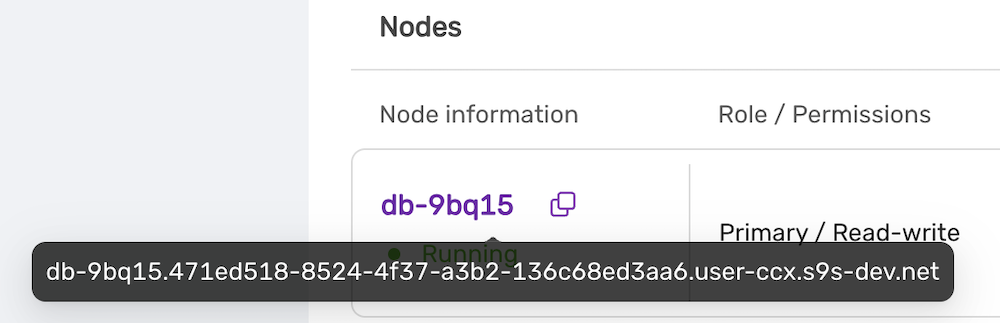
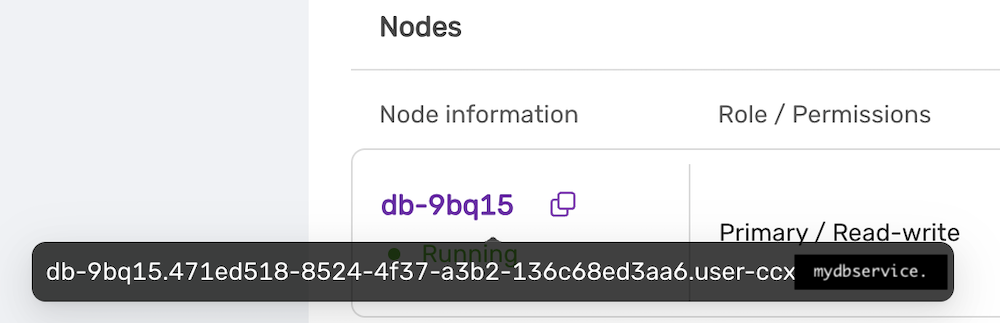
updated

Changed region(s): [[0.775, 0.774, 0.961, 0.8978]]

diff --git a/docs/user/Reference/Products/MySQL/Importing-Data-from-AWS-RDS.md b/docs/user/Reference/Products/MySQL/Importing-Data-from-AWS-RDS.md
@@ -26,11 +26,11 @@ If you dont want to setup replication, then you can chose to only apply the sect
 
 ## Preparations
 * Create a datastore on CCX. Please note that you can also replicate from MySQL 8.0 to MySQL 8.4.
-* Get the endpoint of the CCX Primary (under the Nodes section).  ![sd](../../../images/ccx-primary.png) . Then endpoint in our case is `db-9bq15.471ed518-8524-4f37-a3b2-136c68ed3aa6.user-ccx.s9s-dev.net`.
+* Get the endpoint of the CCX Primary (under the Nodes section).  ![sd](../../../images/ccx-primary.png) . Then endpoint in our case is `db-9bq15.471ed518-8524-4f37-a3b2-136c68ed3aa6.user-ccx.mydbservice.net`.
 * Get the endpoint of the RDS Writer. In this example, the endpoint is `database-1.cluster-cqc4xehkpymd.eu-north-1.rds.amazonaws.com`
 * Update the Security group on AWS RDS to allow the IP address of the CCX Primary to connect. To get the IP address of the CCX Primary you do:
         ```
-        dig db-9bq15.471ed518-8524-4f37-a3b2-136c68ed3aa6.user-ccx.s9s-dev.net
+        dig db-9bq15.471ed518-8524-4f37-a3b2-136c68ed3aa6.user-ccx.mydbservice.net
 * Ensure you can connect a mysql client to both the CCX Primary and the RDS Writer.        ```
 
 ## Create a replication user on the RDS Writer instance:
@@ -50,7 +50,8 @@ Unfortunately, AWS RDS blocks operations like `FLUSH TABLES WITH READ LOCK`.
 ## Create a consistent dump
 Assuming now that writes are blocked on the RDS Writer Instance, you must now get the binary log file and the position of the RDS Writer instancde.
 
-### Get start position
+### Get the replication start position
+The start position (binary log file name, and position) is used to tell the replica where to start replicating data from. 
 ```
 MySQL 8.0: SHOW MASTER STATUS\G 
 MySQL 8.4 and later: SHOW BINARY LOG STATUS\G
